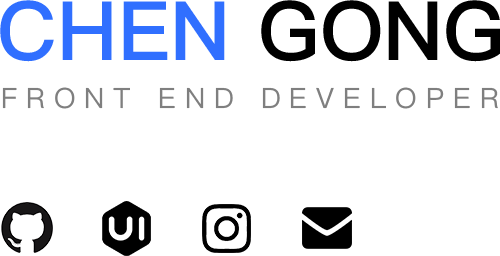
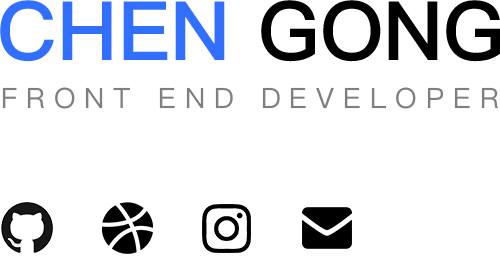
change ui.cn to dribbble

Changed region(s): [[0.18, 0.7812, 0.33, 1.0]]

diff --git a/index.html b/index.html
@@ -17,7 +17,7 @@
             </header>
             <div class="socal-icons">
                 <a target="_blank" href="https://github.com/cgzero" title="Github"><i class="gh-icon"></i></a>
-                <a target="_blank" href="http://i.ui.cn/ucenter/213536.html" title="ui.cn"><i class="ui-icon"></i></a>
+                <a target="_blank" href="https://dribbble.com/cgzero" title="dribbble"><i class="ui-icon"></i></a>
                 <a target="_blank" href="http://instagram.com/cgzero" title="instagram"><i class="ins-icon"></i></a>
                 <a href="mailto:cgzero@cgzero.com" title="Email"><i class="mail-icon"></i></a>
             </div>
